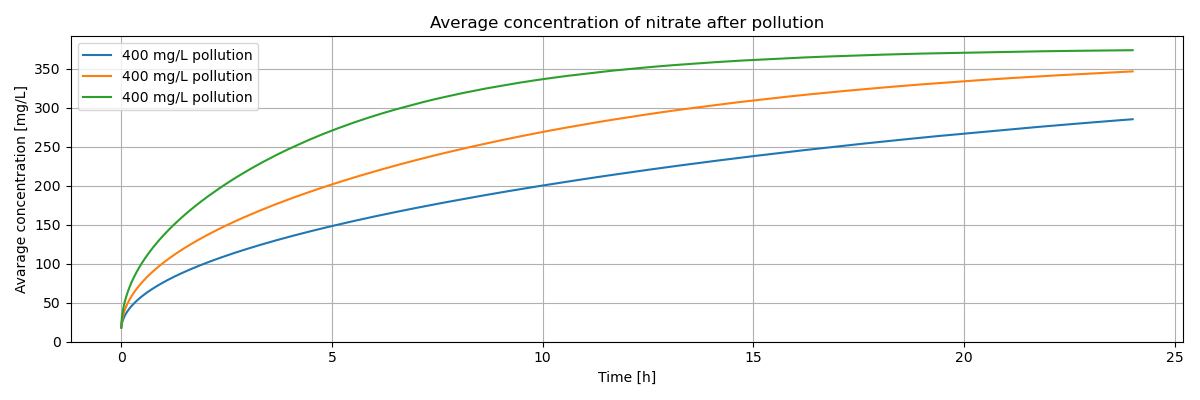
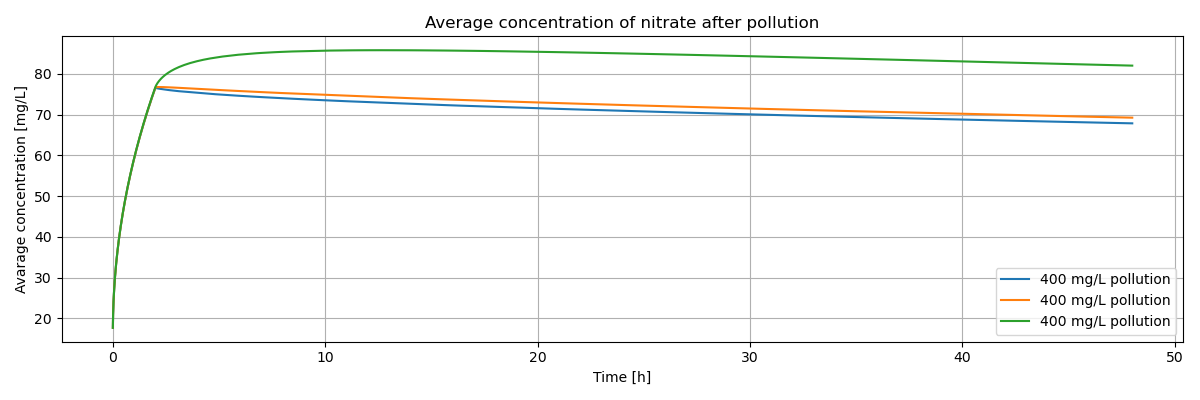
damped

diff --git a/src/flow.py b/src/flow.py
@@ -1,9 +1,8 @@
 import numpy as np
-import matplotlib.pyplot as plt
 from src.stability import advection_stability_check, diffusion_stability_check
 
-
 def diffusion(body, dx, dy, dt, D):
+    # central scheme
     m, n = body.shape
     dif_body = (body[:m-2, 1:n-1] - 2 * body[1:m-1, 1:n-1] + body[2:m, 1:n-1])/(dy**2) + (body[1:m-1, 0:n-2] - 2 * body[1:m-1, 1:n-1] + body[1:m-1, 2:n])/(dx**2)
     body[1:m-1, 1:n-1] += D * dif_body * dt
@@ -21,7 +20,8 @@ def decay(body, dt, k):
     m, n = body.shape
     body[1:m-1, 1:n-1] = np.exp(-k*dt) * body[1:m-1, 1:n-1]
 
-def flow(body, dx, dy, dt, D, v, k, mean, std, pollution_stop=False):
+def flow(body, dx, dy, dt, D, v, k, mean, std, pollution_stop=False, damped=0):
+    # combitnation of diffusion, advection and decay
     m, n = body.shape
     
     # stability checks
@@ -37,12 +37,14 @@ def flow(body, dx, dy, dt, D, v, k, mean, std, pollution_stop=False):
     body[body < 0] = 0
 
     # borders
-    if pollution_stop == True:
-         body[0, :] = body[1, :]
+    if pollution_stop == True and damped <= 0:
+        body[0, :] = body[1, :]
+    elif pollution_stop == True and damped > 0:
+        body[0, :] = (1-damped) * body[1, :] + damped * body[0, :]
     if v > 0:
-        body[:, 0] = np.random.normal(mean, std, m)
-        body[:, -1] = body[:, -2]
+        body[1:-1, 0] = np.random.normal(mean, std, m-2)
+        body[1:-1, -1] = body[1:-1, -2]
     else:
-        body[:, 0] = body[:, 1]
-        body[:, -1] = np.random.normal(mean, std, m)
+        body[1:-1, 0] = body[1:-1, 1]
+        body[1:-1, -1] = np.random.normal(mean, std, m-2)
     body[-1, :] = body[-2, :]

diff --git a/src/simulation.py b/src/simulation.py
@@ -20,6 +20,7 @@ def pipeline(domain_width: int,
              std_noise: float,
              mean_pollution: list[float],
              std_pollution: list[float],
+             damped: list[float],
              number_of_charts: int,
              duration_sim: int,
              duration_poll: int,
@@ -47,7 +48,7 @@ def pipeline(domain_width: int,
 
     for t in range(duration_sim):
         for  i in range(len(mean_pollution)):
-            flow(bodies[i], dx, dy, dt, D[i], v[i], k[i], mean_noise, std_noise, end_of_pollution)
+            flow(bodies[i], dx, dy, dt, D[i], v[i], k[i], mean_noise, std_noise, end_of_pollution, damped[i])
             averages[i].append(average(bodies[i]))
             variances[i].append(variance(bodies[i]))
 
@@ -59,4 +60,4 @@ def pipeline(domain_width: int,
            end_of_pollution = True
     
     plot_avg(np.arange(len(averages[0])) / 3600, averages, labels, "Average concentration of nitrate after pollution", "h")
-    plot_var(np.arange(len(variances[0])) / 3600, variances, labels, "Variance of nitrat concentration after pollution", "h")
+    plot_var(np.arange(len(variances[0])) / 3600, variances, labels, "Variance of nitrate concentration after pollution", "h")

diff --git a/main.py b/main.py
@@ -1,4 +1,4 @@
 from src.simulation import pipeline
 
 if __name__ == '__main__':
-    pipeline(500, 100, 17.5, 2.5, [400, 400, 400], [50, 50, 50], 4, 3600*24, 7200*12, 1, 1, 1, [0.05, 0.1, 0.2], [0.00014, 0.00014, 0.00014], [6e-9, 6e-9, 6e-9])
+    pipeline(1000, 200, 17.5, 2.5, [400, 400, 400], [50, 50, 50], [0, 0.9, 0.99], 4, 3600*24*2, 7200, 1, 1, 1, [0.1, 0.1, 0.1], [0.00014, 0.00014, 0.00014], [6e-9, 6e-9, 6e-9])

diff --git a/src/analyse.py b/src/analyse.py
@@ -1,6 +1,5 @@
 import numpy as np
 
-
 def average(body):
     mean = np.mean(body[1:-1, 1:-1])
     return mean
